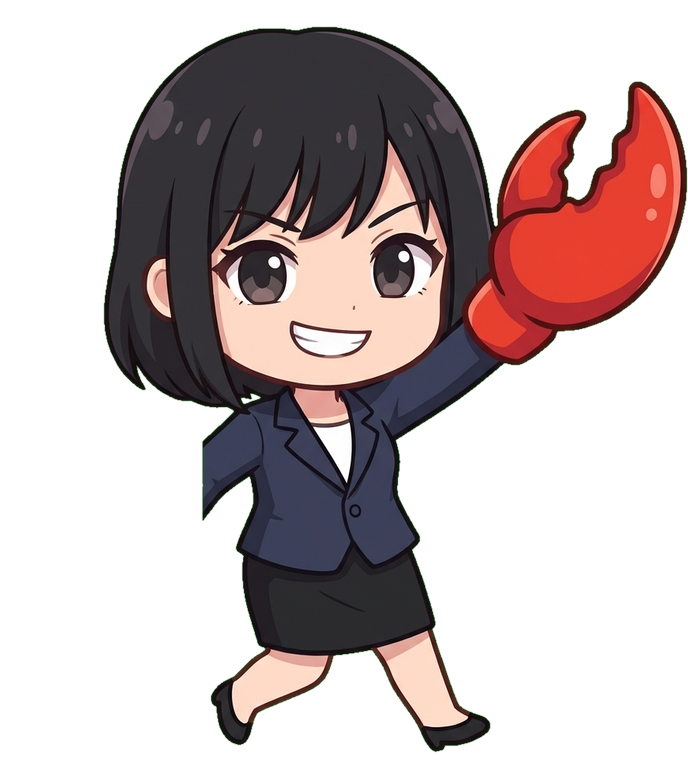
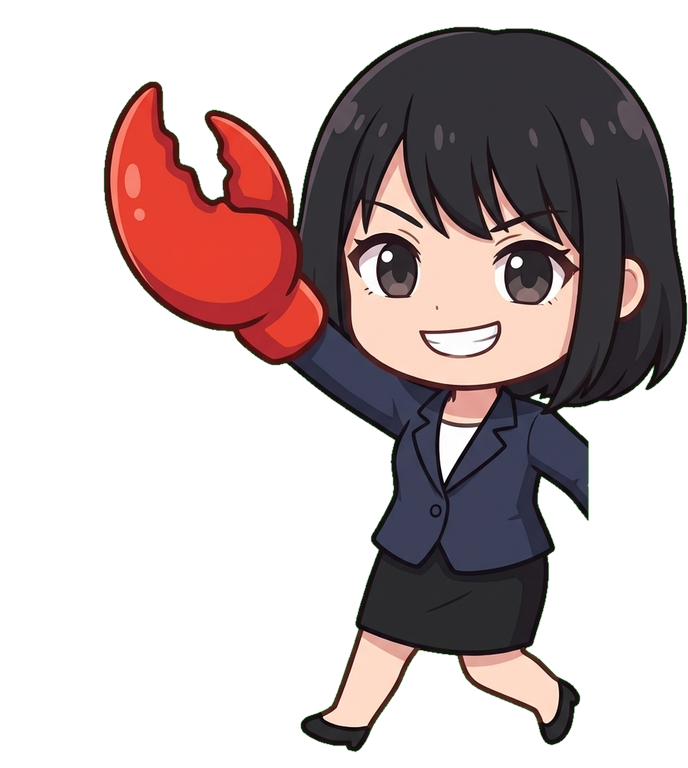
feat: hide behind window with claw peek and pose offset
- Hide mode: after 30s idle, Chi hides and shows claw only
- Peek: occasionally peeks with face, claw position aligned
- Expression lock prevents Gateway events from breaking hide state
- Host tracking continues during hiding (immediate teleport)
- App switch triggers unhide and follow to new window
- Contact edge anchored images with wall at x=0
- Precise claw positioning with overlap/inset compensation
- MoveController.MoveStyle for animated vs immediate moves
- noteActivity(unhideIfNeeded:) for activity/unhide separation

diff --git a/ClawGate/UI/Pet/PetModel.swift b/ClawGate/UI/Pet/PetModel.swift
@@ -47,7 +47,7 @@ final class PetModel: NSObject, ObservableObject {
     // MARK: - Hide behind window
     @Published var isHiding = false
     /// Minutes of idle before hiding. 0 = disabled. Min 0.5.
-    var hideAfterMinutes: Double = 0  // Disabled until hide feature is properly designed
+    var hideAfterMinutes: Double = 0.5  // Debug: 30s
     private var lastActivityTime = Date()
     private var hideCheckTimer: Timer?
     private var clawWaveTimer: Timer?
@@ -296,7 +296,7 @@ final class PetModel: NSObject, ObservableObject {
     }
 
     func toggleChat() {
-        touchActivity()
+        noteActivity()
         if stateMachine.isChatOpen {
             stateMachine.isChatOpen = false
         } else {
@@ -413,7 +413,7 @@ final class PetModel: NSObject, ObservableObject {
 
     func onPetDragged() {
         dragPauseUntil = Date().addingTimeInterval(30)
-        touchActivity()
+        noteActivity()
     }
 
     func startWindowTracking() {
@@ -423,7 +423,7 @@ final class PetModel: NSObject, ObservableObject {
     }
 
     private func updateTargetPosition() {
-        guard isTrackingEnabled, !isHiding else { return }
+        guard isTrackingEnabled else { return }
         if let pause = dragPauseUntil, Date() < pause { return }
 
         let frontmost = NSWorkspace.shared.frontmostApplication
@@ -433,7 +433,7 @@ final class PetModel: NSObject, ObservableObject {
         if let app = frontmost, app.bundleIdentifier != Bundle.main.bundleIdentifier {
             if lastTrackedApp?.processIdentifier != app.processIdentifier {
                 waveOnArrival = true  // New window — wave on arrival
-                touchActivity()
+                noteActivity(unhideIfNeeded: true)  // app changed — come out and follow
             }
             lastTrackedApp = app
         }
@@ -487,19 +487,46 @@ final class PetModel: NSObject, ObservableObject {
         }
 
         guard !candidates.isEmpty else {
-            // No valid position, fallback
             let fallback = NSPoint(x: screen.maxX - petSize - 8, y: screen.minY + 8)
             moveController.moveTo(fallback, waveOnArrival: waveOnArrival)
             return
         }
 
-        // Pick closest candidate to current pet position
+        // Hidden: stick to the side we entered hiding on, immediate move + pose offset
+        if isHiding {
+            if let fixed = candidates.first(where: { $0.side == hidingSide }) {
+                var t = fixed.point
+                // Claw-only: compensate for overlap + height-fit inset
+                // Peek was already perfect, don't touch it
+                if stateMachine.expression == .hideClaw {
+                    // Height-fit: scale = characterSize / 768, display_w = 688 * scale
+                    // Left inset in sprite = (characterSize - display_w) / 2
+                    let scale = characterSize / 768.0
+                    let displayW = 688.0 * scale
+                    let inset = (characterSize - displayW) / 2.0
+                    // Claw is inset px from sprite edge, overlap px into host
+                    // Push out by (overlap - inset) to put claw at host edge
+                    let clawFix = overlap - inset
+                    if hidingSide == .right {
+                        t.x += clawFix
+                    } else {
+                        t.x -= clawFix
+                    }
+                }
+                t.x += hiddenPoseOffsetX(for: stateMachine.expression, side: hidingSide)
+                t.x = max(screen.minX, min(t.x, screen.maxX - petSize))
+                t.y = max(screen.minY, min(t.y, screen.maxY - petSize))
+                moveController.moveTo(t, waveOnArrival: false, style: .immediate)
+            }
+            return
+        }
+
+        // Normal: pick closest candidate
         let petPos = moveController.currentOrigin ?? NSPoint(x: screen.maxX - petSize, y: screen.minY)
         var target = candidates[0].point
         var bestDist = Double.infinity
         var bestSide = candidates[0].side
         for c in candidates {
-            // Hysteresis: slight preference for current side
             let bonus: Double = c.side == lastPlacementSide ? -50 : 0
             let d = sqrt(pow(c.point.x - petPos.x, 2) + pow(c.point.y - petPos.y, 2)) + bonus
             if d < bestDist {
@@ -573,9 +600,9 @@ final class PetModel: NSObject, ObservableObject {
 
     // MARK: - Hide Behind Window
 
-    func touchActivity() {
+    func noteActivity(unhideIfNeeded: Bool = true) {
         lastActivityTime = Date()
-        if isHiding {
+        if unhideIfNeeded && isHiding {
             unhide()
         }
     }
@@ -598,17 +625,33 @@ final class PetModel: NSObject, ObservableObject {
         isHiding = true
         hidingSide = lastPlacementSide
 
-        // Instant: stop cycle + switch sprite. No freeze, no movement.
+        // Instant: lock expression, stop cycle, switch sprite
         cycleWorkItem?.cancel()
         moveController.stop()
-        // Right placement → claw peeks from RIGHT edge → use "-left" assets (right-anchored)
-        // Left placement → claw peeks from LEFT edge → use "" assets (left-anchored)
-        stateMachine.hideAnimationSuffix = hidingSide == .right ? "-left" : ""
+        stateMachine.isExpressionLocked = true
+        stateMachine.hideAnimationSuffix = hidingSide == .left ? "-left" : ""
         stateMachine.expression = .hideClaw
 
         // Micro-loop: occasional peek while hiding
         startHideMicroLoop()
         NSLog("[PetHide] Entered hiding (side=%@)", hidingSide == .left ? "left" : "right")
+    }
+
+    /// Pose-specific X offset for hiding states (in points).
+    /// Aligns claw screen position between claw-only and peek states.
+    private func hiddenPoseOffsetX(for expression: PetExpression, side: PlacementSide) -> CGFloat {
+        // scale = 128/768 = 1/6 (height-fit)
+        // base = hide-claw claw center x=59
+        let scale: CGFloat = 128.0 / 768.0
+        let deltaPx: CGFloat
+        switch expression {
+        case .hidePeek:
+            deltaPx = 77  // peek claw center x=136 minus base 59
+        default:
+            deltaPx = 0   // claw and emerge: no offset
+        }
+        let deltaPt = deltaPx * scale
+        return side == .right ? -deltaPt : deltaPt
     }
 
     private func startHideMicroLoop() {
@@ -617,9 +660,11 @@ final class PetModel: NSObject, ObservableObject {
             guard let self, self.isHiding else { return }
             if self.stateMachine.expression == .hideClaw {
                 self.stateMachine.expression = .hidePeek
+                self.updateTargetPosition()  // reposition with peek offset
                 DispatchQueue.main.asyncAfter(deadline: .now() + 3.0) { [weak self] in
                     guard let self, self.isHiding else { return }
                     self.stateMachine.expression = .hideClaw
+                    self.updateTargetPosition()  // reposition back to claw offset
                 }
             }
         }
@@ -631,6 +676,7 @@ final class PetModel: NSObject, ObservableObject {
         clawWaveTimer?.invalidate()
         clawWaveTimer = nil
         lastActivityTime = Date()
+        stateMachine.isExpressionLocked = false
 
         // Emerge animation (keep suffix for correct side)
         stateMachine.expression = .hideEmerge

diff --git a/ClawGate/UI/Pet/PetStateMachine.swift b/ClawGate/UI/Pet/PetStateMachine.swift
@@ -99,11 +99,22 @@ final class PetStateMachine: ObservableObject {
     @Published var locomotion: LocomotionState = .stationary
     @Published var isBubbleVisible = false
     @Published var isChatOpen = false
+    /// When true, handle() won't change expression (hiding mode owns expression)
+    var isExpressionLocked = false
     /// Whisper text is managed by PetModel (Layer 1 display payload)
 
     /// Transition based on incoming event
     @discardableResult
     func handle(_ event: PetEvent) -> PetExpression {
+        // During hiding, only chat open/close and bubble events are allowed
+        if isExpressionLocked {
+            switch event {
+            case .userClicked, .userDoubleClicked, .bubbleDismissed:
+                break  // allow these through
+            default:
+                return expression  // block expression changes
+            }
+        }
         switch event {
         case .assistantStarted:
             expression = randomSpeakState()

diff --git a/ClawGate/UI/Pet/MoveController.swift b/ClawGate/UI/Pet/MoveController.swift
@@ -24,7 +24,15 @@ final class MoveController {
         currentOrigin = window.frame.origin
     }
 
-    func moveTo(_ target: NSPoint, waveOnArrival: Bool) {
+    enum MoveStyle { case animated, immediate }
+
+    func moveTo(_ target: NSPoint, waveOnArrival: Bool, style: MoveStyle = .animated) {
+        if style == .immediate {
+            stop()
+            window?.setFrameOrigin(target)
+            currentOrigin = target
+            return
+        }
         if isMoving {
             pendingTarget = target
             pendingWaveOnArrival = waveOnArrival
